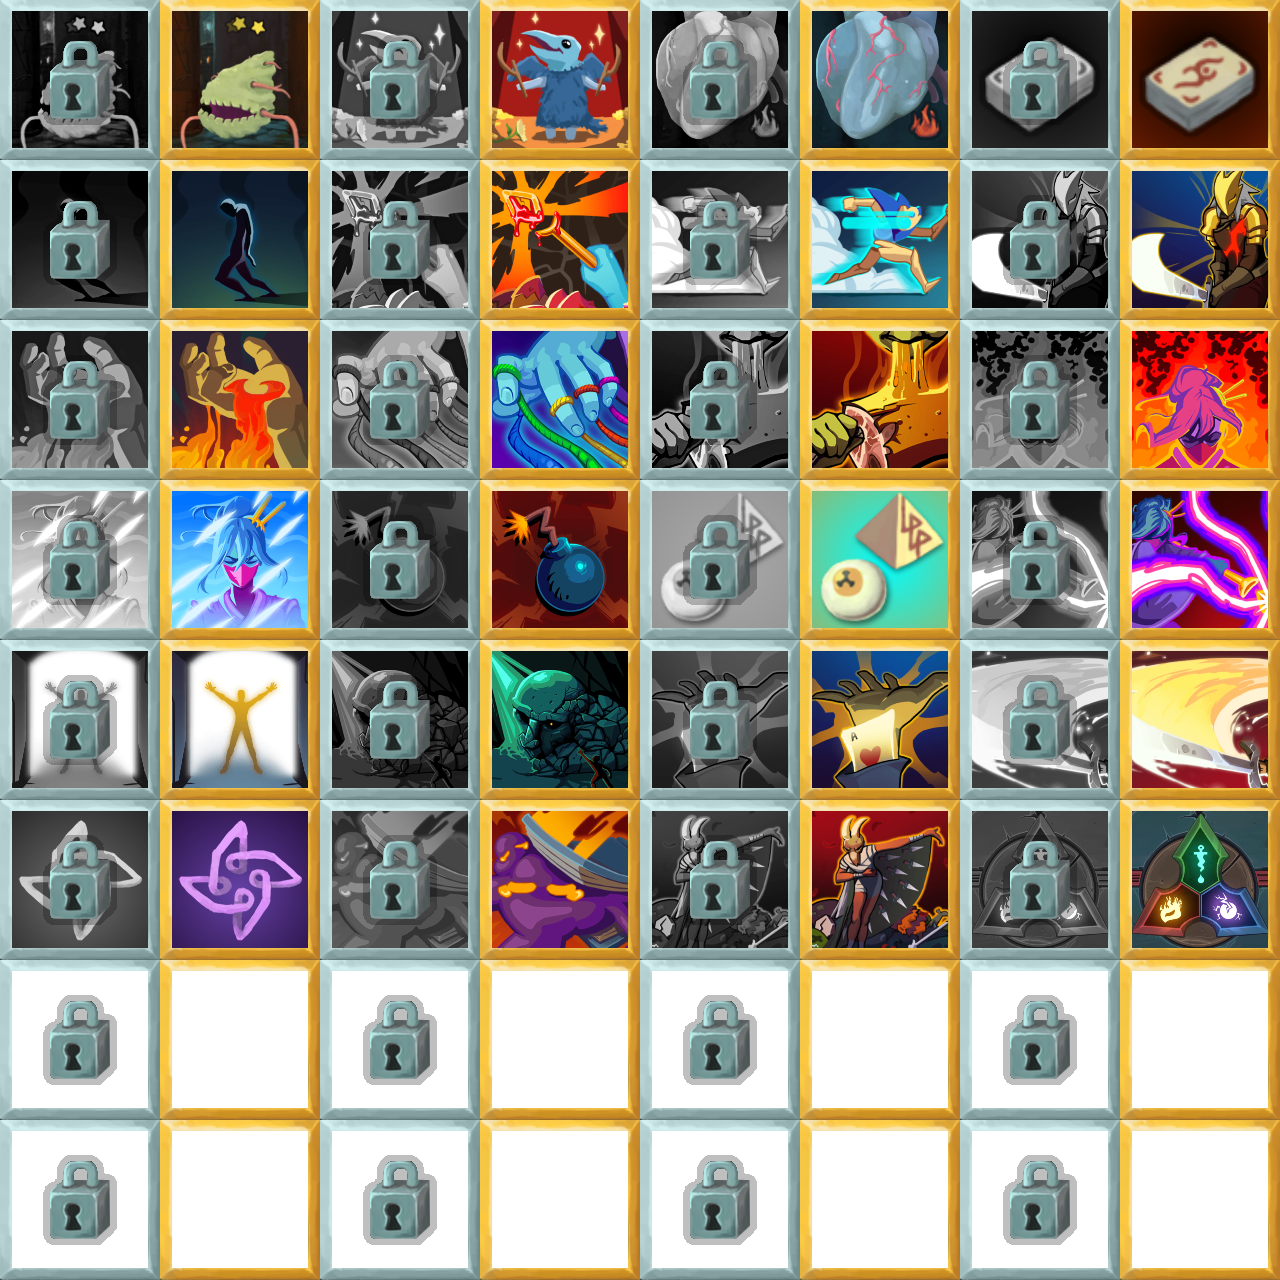
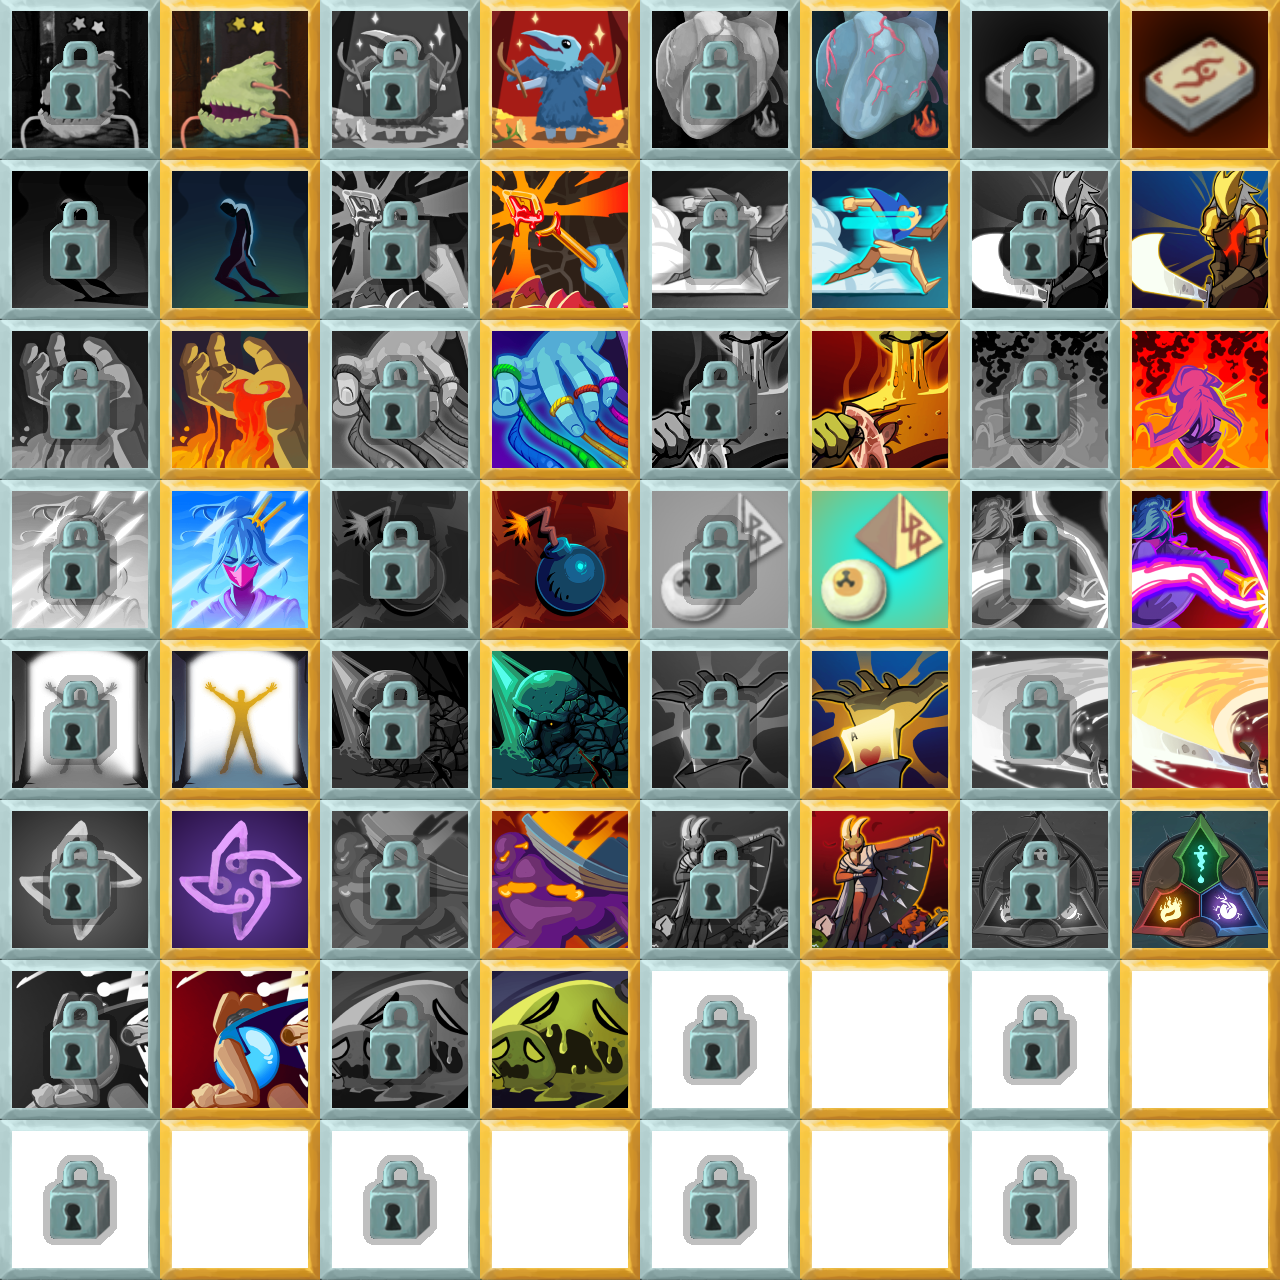
updates

Changed region(s): [[0.0, 0.75, 0.5, 0.875]]

diff --git a/src/main/java/moreachievements/achievements/MoreAchievementGrid.java b/src/main/java/moreachievements/achievements/MoreAchievementGrid.java
@@ -18,39 +18,41 @@ public class MoreAchievementGrid {
 
     public MoreAchievementGrid() {
         MoreAchievementItem.atlas = new TextureAtlas(Gdx.files.internal("moreachievements/images/achievements/MoreAchievements.atlas"));
-        loadAchievement("SHELL_SHOCK", false);
-        loadAchievement("CLASS_DISMISSED", false);
-        loadAchievement("OVERTHROWN", false);
-        loadAchievement("ROLE_REVERSAL", false);
-        loadAchievement("ENCORE", false);
-        loadAchievement("MERCY", false);
-        loadAchievement("COLLECTIONIST", false);
-        loadAchievement("BURDENS", false);
-        loadAchievement("NEW_PERSPECTIVES", false);
-        loadAchievement("BLOODTHIRSTY", false);
-        loadAchievement("SHOWOFF", false);
-        loadAchievement("LIVING_ON_THE_EDGE", false);
-        loadAchievement("SATED", false);
-        loadAchievement("POWERLESS", false);
-        loadAchievement("WORKAROUND", false);
-        loadAchievement("PROTEST", false);
-        loadAchievement("ENERGETIC", false);
-        loadAchievement("NEGATIVE_SYNERGY", false);
-        loadAchievement("BLOOMED", false);
-        loadAchievement("WRATHFUL", false);
-        loadAchievement("ANGER_MANAGEMENT", false);
-        loadAchievement("KEYMASTER", false);
-        loadAchievement("THE_SPIRE_SLEEPS", false);
+        loadAchievement("SHELL_SHOCK");
+        loadAchievement("CLASS_DISMISSED");
+        loadAchievement("OVERTHROWN");
+        loadAchievement("ROLE_REVERSAL");
+        loadAchievement("UNDIVIDED");
+        loadAchievement("ENCORE");
+        loadAchievement("MERCY");
+        loadAchievement("COLLECTIONIST");
+        loadAchievement("BURDENS");
+        loadAchievement("NEW_PERSPECTIVES");
+        loadAchievement("BLOODTHIRSTY");
+        loadAchievement("SHOWOFF");
+        loadAchievement("LIVING_ON_THE_EDGE");
+        loadAchievement("SATED");
+        loadAchievement("POWERLESS");
+        loadAchievement("WORKAROUND");
+        loadAchievement("PROTEST");
+        loadAchievement("ENERGETIC");
+        loadAchievement("NEGATIVE_SYNERGY");
+        loadAchievement("BLOOMED");
+        loadAchievement("ONE_FOR_ALL");
+        loadAchievement("WRATHFUL");
+        loadAchievement("ANGER_MANAGEMENT");
+        loadAchievement("KEYMASTER");
+        loadAchievement("THE_SPIRE_SLEEPS");
     }
 
-    private void loadAchievement(String id, boolean isHidden) {
+    private void loadAchievement(String id) {
         String fullId = MoreAchievements.makeID(id);
         UIStrings uiStrings = CardCrawlGame.languagePack.getUIString(fullId);
         String name = uiStrings.TEXT[0];
         String description = uiStrings.TEXT[1];
         TextureAtlas.AtlasRegion AchievementImageUnlocked = MoreAchievementItem.atlas.findRegion("unlocked/" + id);
         TextureAtlas.AtlasRegion AchievementImageLocked = MoreAchievementItem.atlas.findRegion("locked/" + id);
-        items.add(new MoreAchievementItem(name, description, fullId, isHidden, AchievementImageUnlocked, AchievementImageLocked));
+        items.add(new MoreAchievementItem(name, description, fullId, AchievementImageUnlocked, AchievementImageLocked));
     }
 
     public void updateAchievementStatus() {

diff --git a/src/main/java/moreachievements/MoreAchievements.java b/src/main/java/moreachievements/MoreAchievements.java
@@ -10,6 +10,7 @@ import com.megacrit.cardcrawl.relics.MarkOfTheBloom;
 import com.megacrit.cardcrawl.relics.RunicPyramid;
 import com.megacrit.cardcrawl.relics.SneckoEye;
 import com.megacrit.cardcrawl.rooms.AbstractRoom;
+import moreachievements.achievements.MoreAchievementGrid;
 import moreachievements.util.*;
 import com.badlogic.gdx.Files;
 import com.badlogic.gdx.Gdx;
@@ -49,6 +50,7 @@ public class MoreAchievements implements
     static { loadModInfo(); }
     private static final String resourcesFolder = checkResourcesPath();
     public static final Logger logger = LogManager.getLogger(modID); //Used to output to the console.
+    public static MoreAchievementGrid moreAchievementGrid;
 
     //This is used to prefix the IDs of various objects like cards and relics,
     //to avoid conflicts between different mods using the same name for things.
@@ -77,6 +79,7 @@ public class MoreAchievements implements
         //The Mod Badges page has a basic example of this, but setting up config is overall a bit complex.
         BaseMod.registerModBadge(badgeTexture, info.Name, GeneralUtils.arrToString(info.Authors), info.Description, null);
         initializeSaveFields();
+        moreAchievementGrid = new MoreAchievementGrid();
     }
 
     @Override
@@ -94,14 +97,6 @@ public class MoreAchievements implements
     @Override
     public void receiveOnPlayerTurnStart() {
         MoreAchievementVariables.grandFinalePlays = 0;
-        BaseMod.logger.info("Elites defeated: " + MoreAchievementVariables.elitesDefeated);
-        BaseMod.logger.info("Burning elites defeated: " + MoreAchievementVariables.burningElitesDefeated);
-        BaseMod.logger.info("Grand Finale plays: " + MoreAchievementVariables.grandFinalePlays);
-        BaseMod.logger.info("Exordium keys obtained: " + MoreAchievementVariables.exordiumKeys);
-        BaseMod.logger.info("Entered Calm: " + MoreAchievementVariables.calmEntered);
-        BaseMod.logger.info("Entered Calm in final form: " + MoreAchievementVariables.calmEnteredFinal);
-        BaseMod.logger.info("Entered Wrath: " + MoreAchievementVariables.wrathEntered);
-        BaseMod.logger.info("Entered Wrath in final form: " + MoreAchievementVariables.wrathEnteredFinal);
     }
 
     @Override

diff --git a/src/main/java/moreachievements/patches/unlocks/OneForAll.java b/src/main/java/moreachievements/patches/unlocks/OneForAll.java
@@ -1,0 +1,44 @@
+package moreachievements.patches.unlocks;
+
+import com.evacipated.cardcrawl.modthespire.lib.*;
+import com.megacrit.cardcrawl.actions.AbstractGameAction;
+import com.megacrit.cardcrawl.actions.defect.AllCostToHandAction;
+import com.megacrit.cardcrawl.dungeons.AbstractDungeon;
+import javassist.CtBehavior;
+import moreachievements.util.MoreAchievementUnlocker;
+
+@SpirePatch(
+        clz = AllCostToHandAction.class,
+        method = "update"
+)
+public class OneForAll {
+    @SpireInsertPatch(
+            locator = Locator.class
+    )
+    public static void Insert(AllCostToHandAction __instance) {
+        int initialHandSize = AbstractDungeon.player.hand.size();
+        int initialDiscardPileSize = AbstractDungeon.player.discardPile.size();
+
+        AbstractDungeon.actionManager.addToBottom(new AbstractGameAction() {
+            @Override
+            public void update() {
+                int cardsRetrieved = AbstractDungeon.player.hand.size() - initialHandSize;
+                int cardsRemovedFromDiscard = initialDiscardPileSize - AbstractDungeon.player.discardPile.size();
+
+                if (cardsRetrieved >= 5) {
+                    MoreAchievementUnlocker.unlockAchievement("ONE_FOR_ALL");
+                }
+
+                this.isDone = true;
+            }
+        });
+    }
+
+    private static class Locator extends SpireInsertLocator {
+        @Override
+        public int[] Locate(CtBehavior ctMethodToPatch) throws Exception {
+            Matcher finalMatcher = new Matcher.MethodCallMatcher(AllCostToHandAction.class, "addToBot");
+            return LineFinder.findAllInOrder(ctMethodToPatch, finalMatcher);
+        }
+    }
+}

diff --git a/src/main/java/moreachievements/patches/statScreen/StatScreenScrollbarPatch.java b/src/main/java/moreachievements/patches/statScreen/StatScreenScrollbarPatch.java
@@ -5,6 +5,7 @@ import basemod.ReflectionHacks;
 import com.evacipated.cardcrawl.modthespire.lib.SpirePatch2;
 import com.evacipated.cardcrawl.modthespire.lib.SpirePostfixPatch;
 import com.megacrit.cardcrawl.screens.stats.StatsScreen;
+import moreachievements.MoreAchievements;
 
 @SpirePatch2(
        clz = StatsScreen.class,
@@ -14,7 +15,7 @@ public class StatScreenScrollbarPatch {
    @SpirePostfixPatch
    public static void Postfix(StatsScreen __instance) {
        float currentUpperBound = (Float) ReflectionHacks.getPrivate(__instance, StatsScreen.class, "scrollUpperBound");
-       float moreAchievementsHeight = StatsScreenPatch.getMoreAchievements().calculateHeight();
+       float moreAchievementsHeight = MoreAchievements.moreAchievementGrid.calculateHeight();
        ReflectionHacks.setPrivate(__instance, StatsScreen.class, "scrollUpperBound", currentUpperBound + (moreAchievementsHeight + 50F));
    }
 }

diff --git a/src/main/java/moreachievements/patches/statScreen/RenderStatScreenPatch.java b/src/main/java/moreachievements/patches/statScreen/RenderStatScreenPatch.java
@@ -7,6 +7,7 @@ import com.megacrit.cardcrawl.core.Settings;
 import com.megacrit.cardcrawl.localization.UIStrings;
 import com.megacrit.cardcrawl.screens.stats.StatsScreen;
 import javassist.CtBehavior;
+import moreachievements.MoreAchievements;
 
 import java.util.Iterator;
 
@@ -24,8 +25,8 @@ public class RenderStatScreenPatch {
 
         // Render the More Achievements section
         StatsScreen.renderHeader(sb, uiStrings.TEXT[0], 300.0F * Settings.scale, renderY[0]);
-        StatsScreenPatch.getMoreAchievements().render(sb, renderY[0]);
-        renderY[0] -= StatsScreenPatch.getMoreAchievements().calculateHeight();
+        MoreAchievements.moreAchievementGrid.render(sb, renderY[0]);
+        renderY[0] -= MoreAchievements.moreAchievementGrid.calculateHeight();
         renderY[0] -= 100.0F * Settings.scale;
     }
 

diff --git a/src/main/java/moreachievements/achievements/MoreAchievementItem.java b/src/main/java/moreachievements/achievements/MoreAchievementItem.java
@@ -21,7 +21,7 @@ public class MoreAchievementItem {
     public boolean isUnlocked;
     public Hitbox hb;
 
-    public MoreAchievementItem(String title, String desc, String key, boolean hidden, TextureAtlas.AtlasRegion unlockedImage, TextureAtlas.AtlasRegion lockedImage) {
+    public MoreAchievementItem(String title, String desc, String key, TextureAtlas.AtlasRegion unlockedImage, TextureAtlas.AtlasRegion lockedImage) {
         this.hb = new Hitbox(160.0F * Settings.scale, 160.0F * Settings.scale);
         this.isUnlocked = UnlockTracker.achievementPref.getBoolean(key, false);
         this.key = key;

diff --git a/src/main/java/moreachievements/patches/unlocks/Undivided.java b/src/main/java/moreachievements/patches/unlocks/Undivided.java
@@ -1,0 +1,18 @@
+package moreachievements.patches.unlocks;
+
+import com.evacipated.cardcrawl.modthespire.lib.SpirePatch;
+import com.evacipated.cardcrawl.modthespire.lib.SpirePostfixPatch;
+import com.megacrit.cardcrawl.monsters.exordium.SlimeBoss;
+import moreachievements.util.MoreAchievementUnlocker;
+
+@SpirePatch(
+        clz = SlimeBoss.class,
+        method = "die"
+)
+public class Undivided {
+
+    @SpirePostfixPatch
+    public static void Postfix(SlimeBoss __instance) {
+        MoreAchievementUnlocker.unlockAchievement("UNDIVIDED");
+    }
+}

diff --git a/src/main/java/moreachievements/patches/statScreen/UpdatePatch.java b/src/main/java/moreachievements/patches/statScreen/UpdatePatch.java
@@ -2,10 +2,11 @@ package moreachievements.patches.statScreen;
 
 import com.evacipated.cardcrawl.modthespire.lib.SpirePatch;
 import com.megacrit.cardcrawl.screens.stats.StatsScreen;
+import moreachievements.MoreAchievements;
 
 @SpirePatch(clz = StatsScreen.class, method = "update")
 public class UpdatePatch {
     public static void Postfix(StatsScreen __instance) {
-        StatsScreenPatch.getMoreAchievements().update();
+        MoreAchievements.moreAchievementGrid.update();
     }
 }

diff --git a/src/main/java/moreachievements/util/MoreAchievementUnlocker.java b/src/main/java/moreachievements/util/MoreAchievementUnlocker.java
@@ -12,7 +12,6 @@ public class MoreAchievementUnlocker {
         if (!Settings.isShowBuild && Settings.isStandardRun()) {
             if (!achievementPref.getBoolean(fullKey, false)) {
                 achievementPref.putBoolean(fullKey, true);
-                BaseMod.logger.info("achievement unlocked:" + fullKey);
             }
 
             achievementPref.flush();
